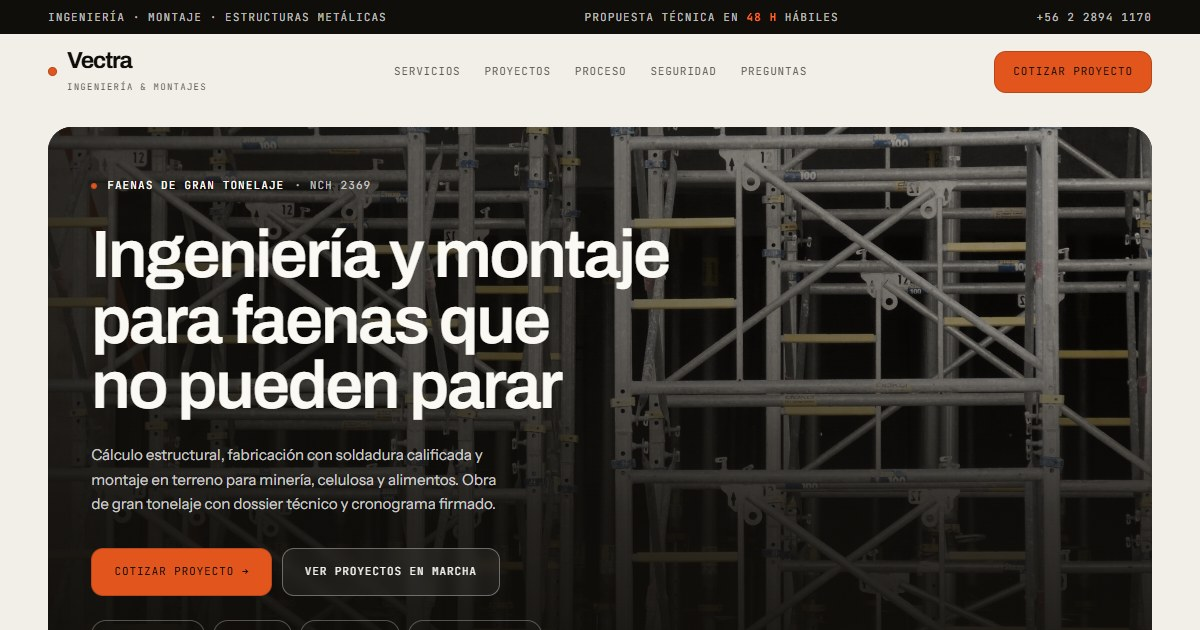
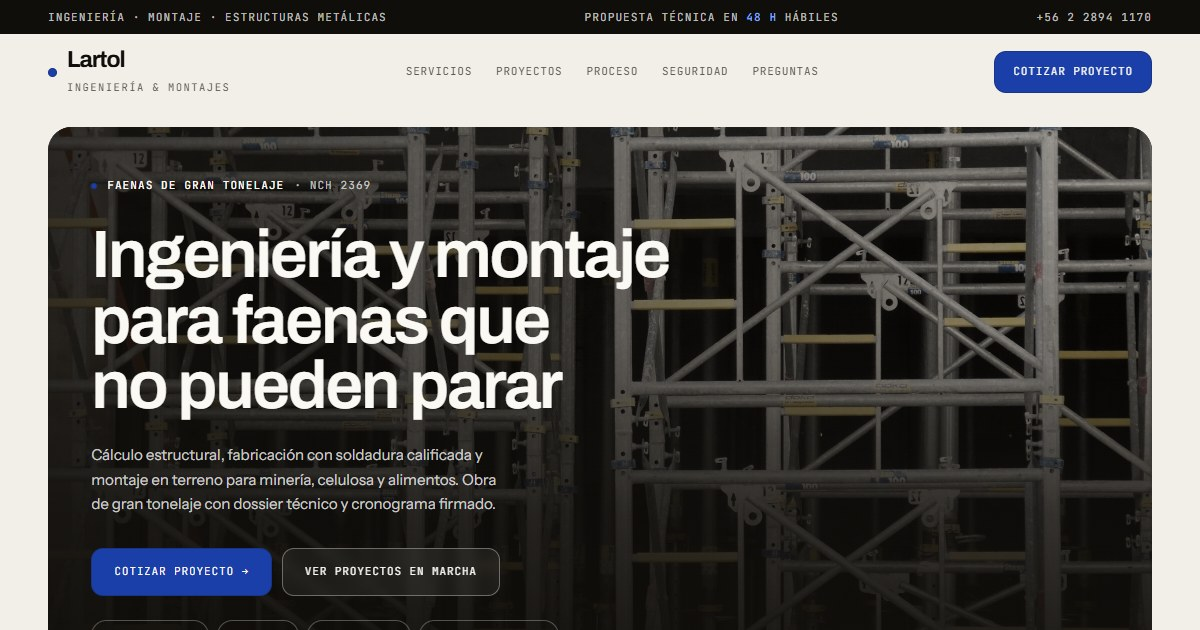
Lartol: nuevo nombre y paleta azul

diff --git a/index.html b/index.html
@@ -3,15 +3,15 @@
 <head>
 <meta charset="utf-8">
 <meta name="viewport" content="width=device-width, initial-scale=1">
-<title>VECTRA — Ingeniería y montaje industrial</title>
+<title>LARTOL — Ingeniería y montaje industrial</title>
 <meta name="description" content="Cálculo estructural, fabricación con soldadura calificada y montaje en faena para minería, celulosa y alimentos. Proyectos de gran tonelaje en Chile.">
 <meta name="robots" content="noindex,nofollow">
 <meta property="og:type" content="website">
-<meta property="og:site_name" content="Vectra Ingeniería &amp; Montajes">
-<meta property="og:title" content="Vectra — Ingeniería y montaje industrial">
+<meta property="og:site_name" content="Lartol Ingeniería &amp; Montajes">
+<meta property="og:title" content="Lartol — Ingeniería y montaje industrial">
 <meta property="og:description" content="Cálculo estructural, fabricación con soldadura calificada y montaje en faena. Propuesta técnica en 48 horas.">
-<meta property="og:image" content="https://uxlevelcl-coder.github.io/vectra-demo/og.jpg">
-<meta property="og:url" content="https://uxlevelcl-coder.github.io/vectra-demo/">
+<meta property="og:image" content="https://uxlevelcl-coder.github.io/lartol-demo/og.jpg">
+<meta property="og:url" content="https://uxlevelcl-coder.github.io/lartol-demo/">
 <meta name="twitter:card" content="summary_large_image">
 <link rel="icon" href="favicon.svg" type="image/svg+xml">
 <link rel="preconnect" href="https://fonts.googleapis.com">
@@ -30,9 +30,9 @@
   --ink-2:#1A1815;
   --muted:#5E5A53;
   --muted-2:#6E6A60;
-  --accent:#E2561E;
-  --accent-hi:#FF6B2E;
-  --accent-ink:#170C07;
+  --accent:#1A3FA8;
+  --accent-hi:#7FA6FF;
+  --accent-ink:#FBF9F4;
   --line:rgba(16,14,11,.11);
   --line-strong:rgba(16,14,11,.22);
   --line-inv:rgba(255,255,255,.16);
@@ -405,6 +405,7 @@ section[id]{scroll-margin-top:96px}
 @media(min-width:1400px){.cta-block{margin-inline:auto;max-width:1360px}}
 .cta-grid{display:grid;grid-template-columns:repeat(12,1fr);gap:clamp(20px,3vw,44px);align-items:start}
 .cta-copy{grid-column:1/6}
+.cta-block h2{color:var(--accent-ink)}
 .cta-block .eyebrow{color:var(--accent-ink)}
 .cta-block .eyebrow::before{background:var(--accent-ink);box-shadow:none}
 .cta-block .eyebrow b{color:var(--accent-ink)}
@@ -537,10 +538,10 @@ form.sent .ok{display:block}
 
 <header id="hdr">
   <div class="wrap nav">
-    <a class="brand" href="#" aria-label="VECTRA, inicio">
+    <a class="brand" href="#" aria-label="LARTOL, inicio">
       <span class="dot" aria-hidden="true"></span>
       <span>
-        <span class="wm">Vectra</span>
+        <span class="wm">Lartol</span>
         <small>Ingeniería &amp; Montajes</small>
       </span>
     </a>
@@ -558,7 +559,7 @@ form.sent .ok{display:block}
 
 <div class="drawer" id="drawer">
   <div class="dhead">
-    <span class="brand"><span class="dot"></span><span class="wm" style="font-size:20px">Vectra</span></span>
+    <span class="brand"><span class="dot"></span><span class="wm" style="font-size:20px">Lartol</span></span>
     <button class="burger x" id="close" aria-label="Cerrar menú"><span></span></button>
   </div>
   <nav aria-label="Menú móvil">
@@ -848,7 +849,7 @@ form.sent .ok{display:block}
           <p data-reveal style="--d:60ms">Cuéntenos qué necesita montar o fabricar. Respondemos con una propuesta técnica y un plazo estimado en 48 horas hábiles.</p>
           <div class="cta-contacts" data-reveal style="--d:120ms">
             <a href="tel:+56228941170">+56 2 2894 1170</a>
-            <a href="mailto:proyectos@vectra.cl">proyectos@vectra.cl</a>
+            <a href="mailto:proyectos@lartol.cl">proyectos@lartol.cl</a>
             <span>Av. Apoquindo 4501, piso 12 · Las Condes</span>
           </div>
         </div>
@@ -898,14 +899,14 @@ form.sent .ok{display:block}
 <footer class="footer-block">
   <div class="f-top">
     <div class="f-brand">
-      <div class="wm">Vectra</div>
+      <div class="wm">Lartol</div>
       <p>Ingeniería y montaje industrial. Cálculo estructural, fabricación con soldadura calificada y montaje en faena.</p>
     </div>
     <div class="f-col">
       <h4>Contacto</h4>
       <p>Av. Apoquindo 4501, piso 12<br>Las Condes, Santiago</p>
       <a href="tel:+56228941170">+56 2 2894 1170</a>
-      <a href="mailto:proyectos@vectra.cl">proyectos@vectra.cl</a>
+      <a href="mailto:proyectos@lartol.cl">proyectos@lartol.cl</a>
     </div>
     <div class="f-col">
       <h4>Servicios</h4>
@@ -923,13 +924,13 @@ form.sent .ok{display:block}
     </div>
     <div class="f-col">
       <h4>Legal</h4>
-      <p>Vectra Ingeniería SpA<br>RUT 77.412.908-3</p>
+      <p>Lartol Ingeniería SpA<br>RUT 77.412.908-3</p>
       <a href="#">Política de privacidad</a>
       <a href="#">Términos de servicio</a>
     </div>
   </div>
   <div class="f-bottom mono">
-    <span>© <span id="yr">2026</span> Vectra Ingeniería SpA</span>
+    <span>© <span id="yr">2026</span> Lartol Ingeniería SpA</span>
     <span>Prototipo de diseño · Datos DEMO</span>
   </div>
 </footer>
@@ -981,7 +982,7 @@ form.sent .ok{display:block}
     ['n','e','m'].forEach(id => {
       const f = document.getElementById(id);
       const bad = !f.value.trim() || (id === 'm' && !/^[^@\s]+@[^@\s]+\.[^@\s]+$/.test(f.value));
-      f.style.borderBottomColor = bad ? '#A8350D' : '';
+      f.style.borderBottomColor = bad ? '#B42318' : '';
       if (bad) ok = false;
     });
     if (!ok) return;
